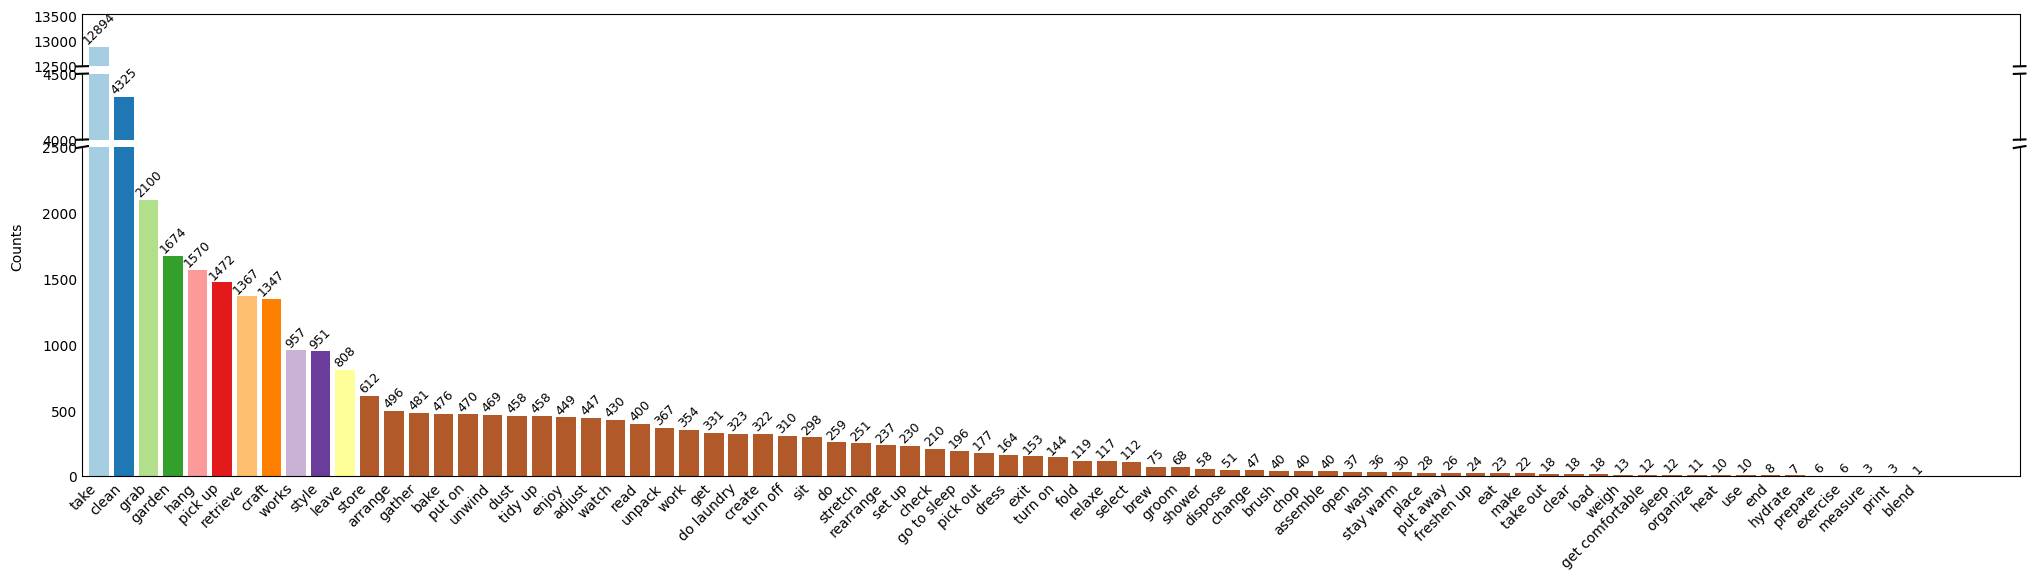
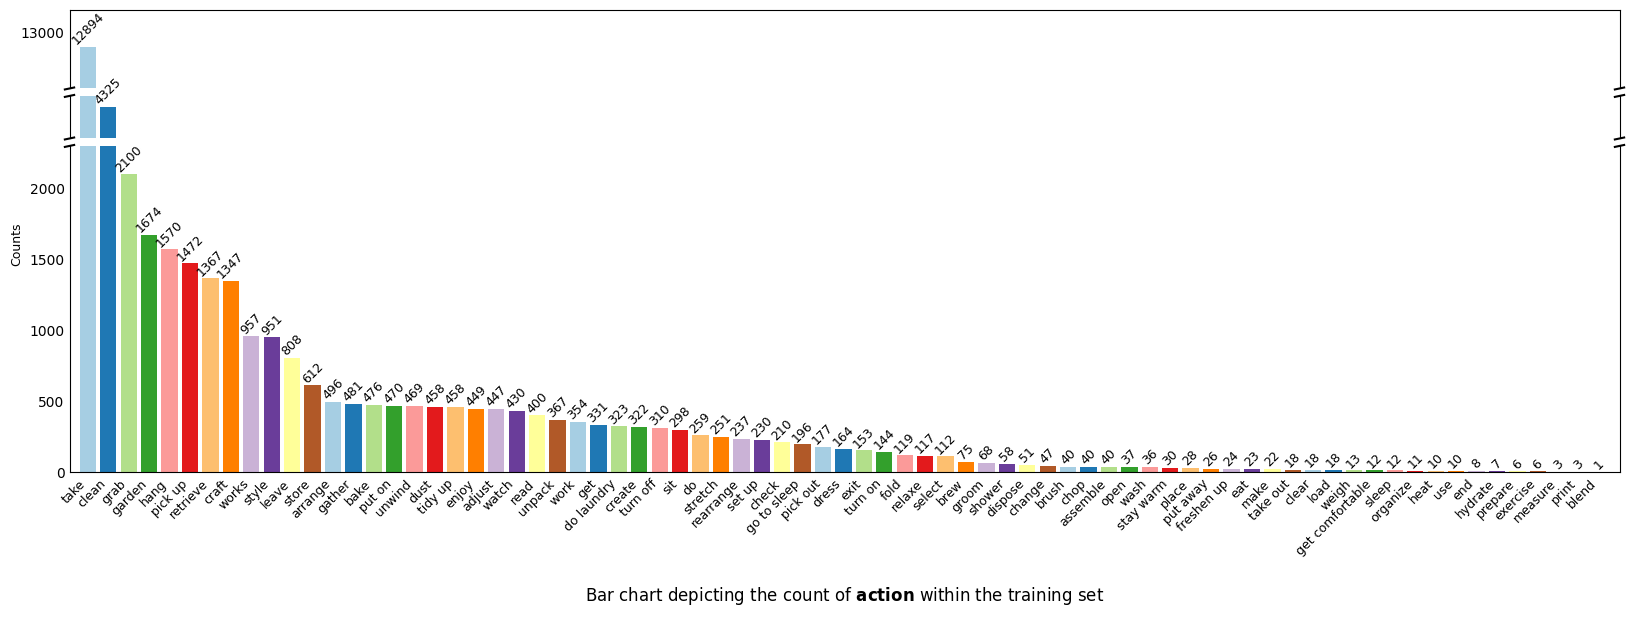
statistics section done

Changed region(s): [[0.0, 0.0, 0.9988, 0.9931], [0.9676, 0.2172, 0.9988, 0.2483], [0.9676, 0.1241, 0.9988, 0.1552]]

diff --git a/README.md b/README.md
@@ -8,13 +8,13 @@ There are *41 destination object* in our dataset, which is parsed from HSSD data
 
 #### (a) train split
 
-Bar chart depicting the count of *destination objects* in the training set
+<!-- Bar chart depicting the count of *destination objects* in the training set -->
 
 ![](figs/destination_object_bar_chart_train.png)
 
 #### (b) test split
 
-Bar chart depicting the count of *destination objects* in the test set
+<!-- Bar chart depicting the count of *destination objects* in the test set -->
 
 ![](figs/destination_object_bar_chart_test.png)
 
@@ -24,13 +24,13 @@ There are *40 objects in activities* within our dataset, which is parsed from LL
 
 #### (a) train split
 
-Bar chart depicting the count of *objects in activities* within the training set
+<!-- Bar chart depicting the count of *objects in activities* within the training set -->
 
 ![](figs/grasp_object_bar_chart_train.png)
 
 #### (b) test split
 
-Bar chart depicting the count of *objects in activities* within the test set
+<!-- Bar chart depicting the count of *objects in activities* within the test set -->
 
 ![](figs/grasp_object_bar_chart_test.png)
 
@@ -40,13 +40,13 @@ Bar chart depicting the count of *objects in activities* within the test set
 
 #### (a) train split
 
-Bar chart depicting the count of *action* within the training set
+<!-- Bar chart depicting the count of *action* within the training set -->
 
 ![](figs/action_bar_chart_train.png)
 
 #### (b) test split
 
-Bar chart depicting the count of *action* within the test set
+<!-- Bar chart depicting the count of *action* within the test set -->
 
 ![](figs/action_bar_chart_test.png)
 
@@ -56,15 +56,15 @@ There are *108 intentions* in our dataset, which is the second-stage activity an
 
 #### (a) train split
 
-Bar chart depicting the count of *intention* within the training set
+<!-- Bar chart depicting the count of *intention* within the training set -->
 
-![](figs/action_bar_chart_train.png)
+![](figs/intention_bar_chart_train.png)
 
 #### (b) test split
 
-Bar chart depicting the count of *intention* within the test set
+<!-- Bar chart depicting the count of *intention* within the test set -->
 
-![](figs/action_bar_chart_test.png)
+![](figs/intention_bar_chart_test.png)
 
 ### 1.5 Distribution of navigation trajectory length and episode length
 
@@ -116,4 +116,3 @@ This figure showcases the diversity in trajectory lengths and episode lengths. T
 
 ### 2.5 a person cleans brushes at the sink
 ![](figs/a_person_takes_books_from_the_shelves.png) -->
-
